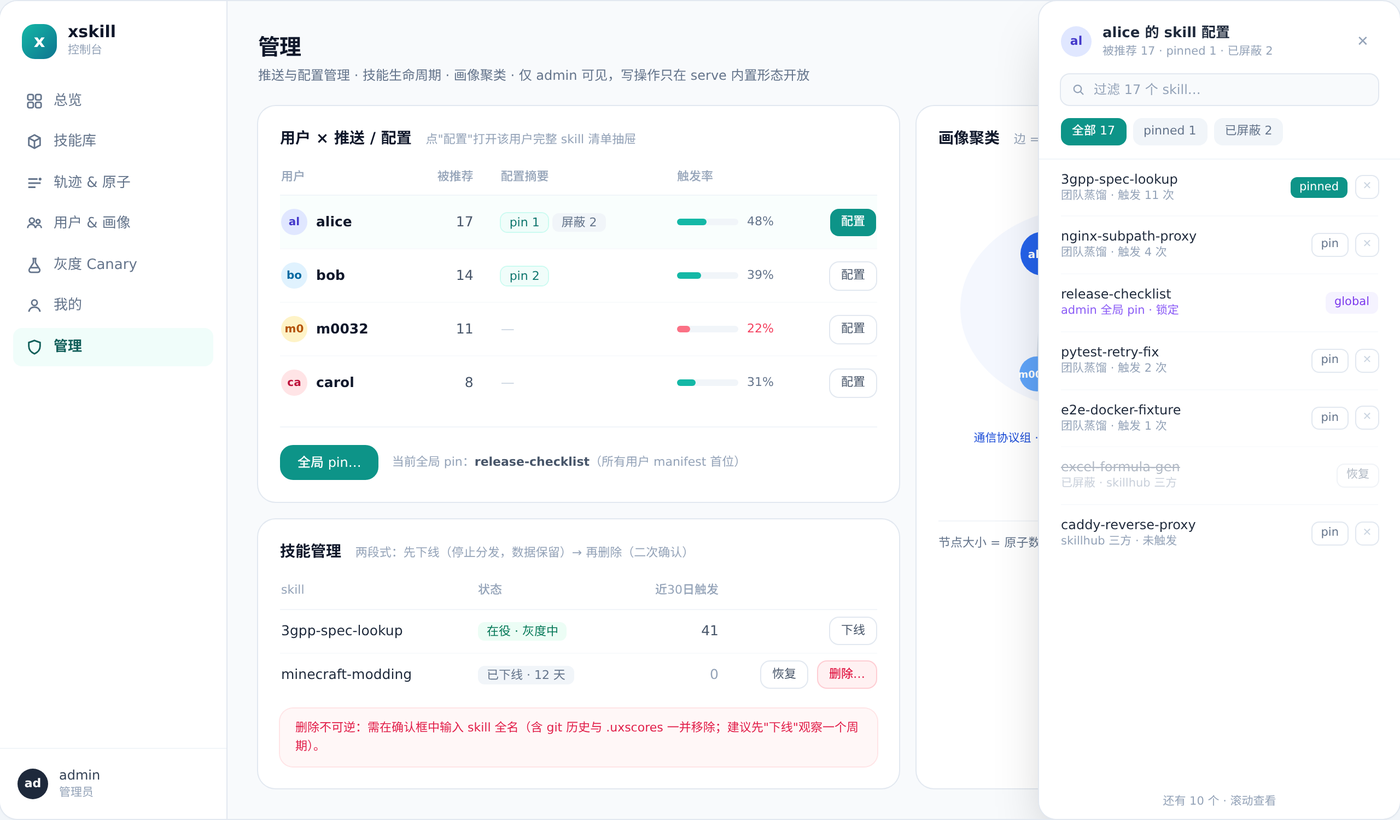
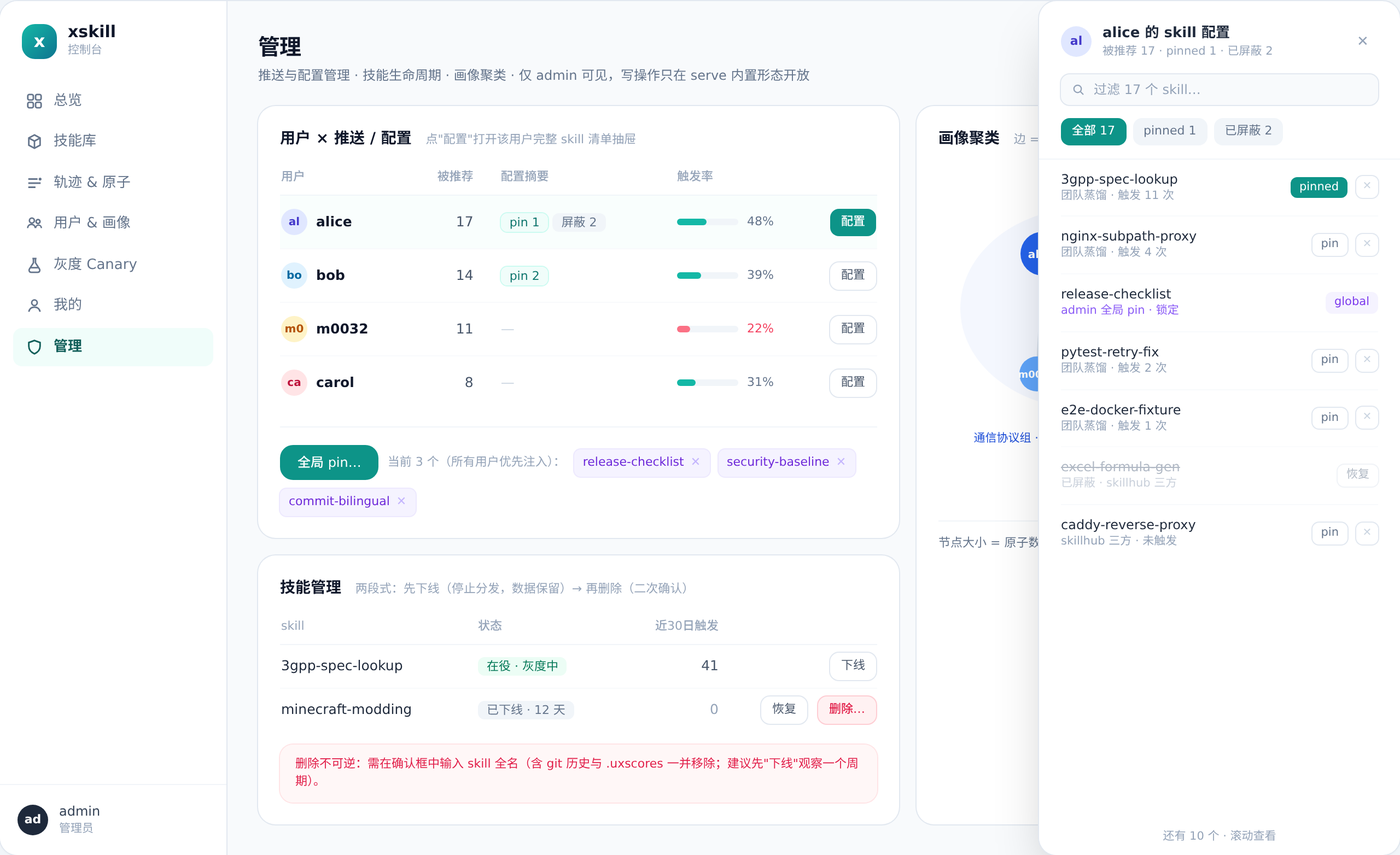
docs(openspec): v4——总览页(蒸馏进度)+设置页(config热加载)+多全局pin+subagent评审采纳 | v4: overview w/ pipeline progress, settings w/ hot-reload, multi global pins, subagent review adopted
按第四轮 review + 独立评审 agent：
- 新增图⑥总览页：可信 KPI、蒸馏管线五阶段实时进度、冷启动屏障进度条、
  候选孵化 weightscore 进度；图⑦设置页：config.yaml 分段表单+原文编辑+
  校验并热加载（失败不落盘），热加载范围显式声明
- global pin 支持多个（chip 列表可逐个移除，合计仍受 slot 上限）
- subagent 评审 12 条采纳：canary_decision 加 sha+refs/rejected（D9，修
  进化图回滚节点拉不通）；canonical 身份键=user_name、归因列改名 user_key
  并废弃 label JOIN（D5 修订）；recommendation_log 注水与 skill_used 单值
  写入审计清单；pinned 超量校验移到写入侧（D8，防 sync 500）；公网只读
  实例内容白名单（原文/画像物理不挂）；语义检索仅内置形态；Web
  Notifications 降为 HTTPS 增强（D10）；事件扇出规则；Q2 倾向 token 方案

Fourth review round + independent subagent review: added overview page
(distillation pipeline progress, cold-start barrier, candidate incubation
bars) and settings page (config hot-reload with explicit scope); multiple
global pins; adopted 12 review findings incl. D8/D9/D10 and the user_key
canonical identity decision.

diff --git a/openspec/changes/dashboard-console-redesign/mockups/panels.html b/openspec/changes/dashboard-console-redesign/mockups/panels.html
@@ -30,6 +30,7 @@
       <a class="flex items-center gap-2.5 px-3 py-2 rounded-lg text-slate-500 hover:bg-slate-50"><svg width="15" height="15" viewBox="0 0 16 16" fill="none" stroke="currentColor" stroke-width="1.5"><path d="M6 1.5h4M7 1.5v4.2L3 12a2 2 0 001.8 3h6.4A2 2 0 0013 12L9 5.7V1.5"/><path d="M4.5 10.5h7"/></svg>灰度 Canary</a>
       <a class="flex items-center gap-2.5 px-3 py-2 rounded-lg text-slate-500 hover:bg-slate-50"><svg width="15" height="15" viewBox="0 0 16 16" fill="none" stroke="currentColor" stroke-width="1.5"><circle cx="8" cy="5.2" r="2.7"/><path d="M2.5 14c.6-3 2.8-4.5 5.5-4.5s4.9 1.5 5.5 4.5"/></svg>我的</a>
       <a class="flex items-center gap-2.5 px-3 py-2 rounded-lg text-slate-500 hover:bg-slate-50"><svg width="15" height="15" viewBox="0 0 16 16" fill="none" stroke="currentColor" stroke-width="1.5"><path d="M8 1.5l5.5 2v3.6c0 3.6-2.3 6-5.5 7.4-3.2-1.4-5.5-3.8-5.5-7.4V3.5l5.5-2z"/></svg>管理</a>
+      <a class="flex items-center gap-2.5 px-3 py-2 rounded-lg text-slate-500 hover:bg-slate-50"><svg width="15" height="15" viewBox="0 0 16 16" fill="none" stroke="currentColor" stroke-width="1.5"><circle cx="8" cy="8" r="2.2"/><path d="M8 1.5v2.2M8 12.3v2.2M1.5 8h2.2M12.3 8h2.2M3.8 3.8l1.5 1.5M10.7 10.7l1.5 1.5M12.2 3.8l-1.5 1.5M5.3 10.7l-1.5 1.5"/></svg>设置</a>
     </nav>
     <div class="mt-auto px-4 py-4 border-t border-slate-100 flex items-center gap-2.5">
       <div class="w-7 h-7 rounded-full bg-indigo-100 text-indigo-700 flex items-center justify-center text-[11px] font-bold">al</div>
@@ -295,6 +296,7 @@
       <a class="flex items-center gap-2.5 px-3 py-2 rounded-lg text-slate-500"><svg width="15" height="15" viewBox="0 0 16 16" fill="none" stroke="currentColor" stroke-width="1.5"><path d="M6 1.5h4M7 1.5v4.2L3 12a2 2 0 001.8 3h6.4A2 2 0 0013 12L9 5.7V1.5"/><path d="M4.5 10.5h7"/></svg>灰度 Canary</a>
       <a class="flex items-center gap-2.5 px-3 py-2 rounded-lg text-slate-500"><svg width="15" height="15" viewBox="0 0 16 16" fill="none" stroke="currentColor" stroke-width="1.5"><circle cx="8" cy="5.2" r="2.7"/><path d="M2.5 14c.6-3 2.8-4.5 5.5-4.5s4.9 1.5 5.5 4.5"/></svg>我的</a>
       <a class="flex items-center gap-2.5 px-3 py-2 rounded-lg text-slate-500"><svg width="15" height="15" viewBox="0 0 16 16" fill="none" stroke="currentColor" stroke-width="1.5"><path d="M8 1.5l5.5 2v3.6c0 3.6-2.3 6-5.5 7.4-3.2-1.4-5.5-3.8-5.5-7.4V3.5l5.5-2z"/></svg>管理</a>
+      <a class="flex items-center gap-2.5 px-3 py-2 rounded-lg text-slate-500 hover:bg-slate-50"><svg width="15" height="15" viewBox="0 0 16 16" fill="none" stroke="currentColor" stroke-width="1.5"><circle cx="8" cy="8" r="2.2"/><path d="M8 1.5v2.2M8 12.3v2.2M1.5 8h2.2M12.3 8h2.2M3.8 3.8l1.5 1.5M10.7 10.7l1.5 1.5M12.2 3.8l-1.5 1.5M5.3 10.7l-1.5 1.5"/></svg>设置</a>
     </nav>
     <div class="mt-auto px-4 py-4 border-t border-slate-100 flex items-center gap-2.5">
       <div class="w-7 h-7 rounded-full bg-indigo-100 text-indigo-700 flex items-center justify-center text-[11px] font-bold">al</div>
@@ -431,6 +433,7 @@
       <a class="flex items-center gap-2.5 px-3 py-2 rounded-lg text-slate-500"><svg width="15" height="15" viewBox="0 0 16 16" fill="none" stroke="currentColor" stroke-width="1.5"><path d="M6 1.5h4M7 1.5v4.2L3 12a2 2 0 001.8 3h6.4A2 2 0 0013 12L9 5.7V1.5"/><path d="M4.5 10.5h7"/></svg>灰度 Canary</a>
       <a class="flex items-center gap-2.5 px-3 py-2 rounded-lg text-slate-500"><svg width="15" height="15" viewBox="0 0 16 16" fill="none" stroke="currentColor" stroke-width="1.5"><circle cx="8" cy="5.2" r="2.7"/><path d="M2.5 14c.6-3 2.8-4.5 5.5-4.5s4.9 1.5 5.5 4.5"/></svg>我的</a>
       <a class="flex items-center gap-2.5 px-3 py-2 rounded-lg text-slate-500"><svg width="15" height="15" viewBox="0 0 16 16" fill="none" stroke="currentColor" stroke-width="1.5"><path d="M8 1.5l5.5 2v3.6c0 3.6-2.3 6-5.5 7.4-3.2-1.4-5.5-3.8-5.5-7.4V3.5l5.5-2z"/></svg>管理</a>
+      <a class="flex items-center gap-2.5 px-3 py-2 rounded-lg text-slate-500 hover:bg-slate-50"><svg width="15" height="15" viewBox="0 0 16 16" fill="none" stroke="currentColor" stroke-width="1.5"><circle cx="8" cy="8" r="2.2"/><path d="M8 1.5v2.2M8 12.3v2.2M1.5 8h2.2M12.3 8h2.2M3.8 3.8l1.5 1.5M10.7 10.7l1.5 1.5M12.2 3.8l-1.5 1.5M5.3 10.7l-1.5 1.5"/></svg>设置</a>
     </nav>
     <div class="mt-auto px-4 py-4 border-t border-slate-100 flex items-center gap-2.5">
       <div class="w-7 h-7 rounded-full bg-slate-800 text-white flex items-center justify-center text-[11px] font-bold">ad</div>
@@ -587,6 +590,7 @@
       <a class="flex items-center gap-2.5 px-3 py-2 rounded-lg text-slate-500"><svg width="15" height="15" viewBox="0 0 16 16" fill="none" stroke="currentColor" stroke-width="1.5"><path d="M6 1.5h4M7 1.5v4.2L3 12a2 2 0 001.8 3h6.4A2 2 0 0013 12L9 5.7V1.5"/><path d="M4.5 10.5h7"/></svg>灰度 Canary</a>
       <a class="flex items-center gap-2.5 px-3 py-2 rounded-lg bg-teal-50 text-teal-800 font-semibold"><svg width="15" height="15" viewBox="0 0 16 16" fill="none" stroke="currentColor" stroke-width="1.5"><circle cx="8" cy="5.2" r="2.7"/><path d="M2.5 14c.6-3 2.8-4.5 5.5-4.5s4.9 1.5 5.5 4.5"/></svg>我的</a>
       <a class="flex items-center gap-2.5 px-3 py-2 rounded-lg text-slate-500"><svg width="15" height="15" viewBox="0 0 16 16" fill="none" stroke="currentColor" stroke-width="1.5"><path d="M8 1.5l5.5 2v3.6c0 3.6-2.3 6-5.5 7.4-3.2-1.4-5.5-3.8-5.5-7.4V3.5l5.5-2z"/></svg>管理</a>
+      <a class="flex items-center gap-2.5 px-3 py-2 rounded-lg text-slate-500 hover:bg-slate-50"><svg width="15" height="15" viewBox="0 0 16 16" fill="none" stroke="currentColor" stroke-width="1.5"><circle cx="8" cy="8" r="2.2"/><path d="M8 1.5v2.2M8 12.3v2.2M1.5 8h2.2M12.3 8h2.2M3.8 3.8l1.5 1.5M10.7 10.7l1.5 1.5M12.2 3.8l-1.5 1.5M5.3 10.7l-1.5 1.5"/></svg>设置</a>
     </nav>
     <div class="mt-auto px-4 py-4 border-t border-slate-100 flex items-center gap-2.5">
       <div class="w-7 h-7 rounded-full bg-sky-100 text-sky-700 flex items-center justify-center text-[11px] font-bold">bo</div>
@@ -813,6 +817,7 @@
       <a class="flex items-center gap-2.5 px-3 py-2 rounded-lg text-slate-500"><svg width="15" height="15" viewBox="0 0 16 16" fill="none" stroke="currentColor" stroke-width="1.5"><path d="M6 1.5h4M7 1.5v4.2L3 12a2 2 0 001.8 3h6.4A2 2 0 0013 12L9 5.7V1.5"/><path d="M4.5 10.5h7"/></svg>灰度 Canary</a>
       <a class="flex items-center gap-2.5 px-3 py-2 rounded-lg text-slate-500"><svg width="15" height="15" viewBox="0 0 16 16" fill="none" stroke="currentColor" stroke-width="1.5"><circle cx="8" cy="5.2" r="2.7"/><path d="M2.5 14c.6-3 2.8-4.5 5.5-4.5s4.9 1.5 5.5 4.5"/></svg>我的</a>
       <a class="flex items-center gap-2.5 px-3 py-2 rounded-lg bg-teal-50 text-teal-800 font-semibold"><svg width="15" height="15" viewBox="0 0 16 16" fill="none" stroke="currentColor" stroke-width="1.5"><path d="M8 1.5l5.5 2v3.6c0 3.6-2.3 6-5.5 7.4-3.2-1.4-5.5-3.8-5.5-7.4V3.5l5.5-2z"/></svg>管理</a>
+      <a class="flex items-center gap-2.5 px-3 py-2 rounded-lg text-slate-500 hover:bg-slate-50"><svg width="15" height="15" viewBox="0 0 16 16" fill="none" stroke="currentColor" stroke-width="1.5"><circle cx="8" cy="8" r="2.2"/><path d="M8 1.5v2.2M8 12.3v2.2M1.5 8h2.2M12.3 8h2.2M3.8 3.8l1.5 1.5M10.7 10.7l1.5 1.5M12.2 3.8l-1.5 1.5M5.3 10.7l-1.5 1.5"/></svg>设置</a>
     </nav>
     <div class="mt-auto px-4 py-4 border-t border-slate-100 flex items-center gap-2.5">
       <div class="w-7 h-7 rounded-full bg-slate-800 text-white flex items-center justify-center text-[11px] font-bold">ad</div>
@@ -864,9 +869,12 @@
             </tr>
           </tbody>
         </table>
-        <div class="mt-4 pt-4 border-t border-slate-100 flex items-center gap-3">
-          <button class="px-4 py-2 rounded-xl bg-teal-600 text-white text-xs font-medium">全局 pin…</button>
-          <span class="text-[11px] text-slate-400">当前全局 pin：<b class="text-slate-600">release-checklist</b>（所有用户 manifest 首位）</span>
+        <div class="mt-4 pt-4 border-t border-slate-100 flex items-center gap-2 flex-wrap">
+          <button class="px-4 py-2 rounded-xl bg-teal-600 text-white text-xs font-medium shrink-0">全局 pin…</button>
+          <span class="text-[11px] text-slate-400 shrink-0">当前 3 个（所有用户优先注入）：</span>
+          <span class="inline-flex items-center gap-1.5 px-2 py-1 rounded-md bg-violet-50 ring-1 ring-violet-100 text-violet-700 text-[11px]">release-checklist <span class="text-violet-300">✕</span></span>
+          <span class="inline-flex items-center gap-1.5 px-2 py-1 rounded-md bg-violet-50 ring-1 ring-violet-100 text-violet-700 text-[11px]">security-baseline <span class="text-violet-300">✕</span></span>
+          <span class="inline-flex items-center gap-1.5 px-2 py-1 rounded-md bg-violet-50 ring-1 ring-violet-100 text-violet-700 text-[11px]">commit-bilingual <span class="text-violet-300">✕</span></span>
         </div>
       </div>
 
@@ -995,6 +1003,240 @@
         </div>
         <div class="absolute bottom-0 left-0 right-0 h-14 bg-gradient-to-t from-white to-transparent flex items-end justify-center pb-2">
           <span class="text-[10.5px] text-slate-400">还有 10 个 · 滚动查看</span>
+        </div>
+      </div>
+    </div>
+  </main>
+</div>
+
+<!-- ══════════════════════ ⑥ 总览 ══════════════════════ -->
+<div class="w-[1280px] mx-auto mt-10 mb-2 text-slate-500 text-sm"><b class="text-slate-800 text-base mr-2">⑥ 总览页</b>可信 KPI ＋ 蒸馏管线实时进度（冷启动屏障/候选孵化进度条）＋ 趋势与生态分布</div>
+<div id="pg-overview" class="w-[1280px] mx-auto flex bg-slate-50 rounded-2xl ring-1 ring-slate-200 shadow-sm overflow-hidden">
+  <aside class="w-52 shrink-0 bg-white border-r border-slate-200 flex flex-col">
+    <div class="px-5 pt-5 pb-4 flex items-center gap-2.5">
+      <div class="w-8 h-8 rounded-xl bg-gradient-to-br from-teal-500 to-cyan-700 flex items-center justify-center text-white font-bold text-base">x</div>
+      <div><div class="font-bold text-[15px] leading-4 text-slate-900">xskill</div><div class="text-[10.5px] text-slate-400 mt-0.5">控制台</div></div>
+    </div>
+    <nav class="px-3 space-y-0.5 mt-1 text-[13px]">
+      <a class="flex items-center gap-2.5 px-3 py-2 rounded-lg bg-teal-50 text-teal-800 font-semibold"><svg width="15" height="15" viewBox="0 0 16 16" fill="none" stroke="currentColor" stroke-width="1.5"><rect x="1.5" y="1.5" width="5.4" height="5.4" rx="1.5"/><rect x="9.1" y="1.5" width="5.4" height="5.4" rx="1.5"/><rect x="1.5" y="9.1" width="5.4" height="5.4" rx="1.5"/><rect x="9.1" y="9.1" width="5.4" height="5.4" rx="1.5"/></svg>总览</a>
+      <a class="flex items-center gap-2.5 px-3 py-2 rounded-lg text-slate-500"><svg width="15" height="15" viewBox="0 0 16 16" fill="none" stroke="currentColor" stroke-width="1.5"><path d="M8 1.5l5.5 3v7l-5.5 3-5.5-3v-7l5.5-3z"/><path d="M2.5 4.5L8 7.5l5.5-3M8 7.5v7"/></svg>技能库</a>
+      <a class="flex items-center gap-2.5 px-3 py-2 rounded-lg text-slate-500"><svg width="15" height="15" viewBox="0 0 16 16" fill="none" stroke="currentColor" stroke-width="1.5"><path d="M2 4h9M2 8h12M2 12h7"/><circle cx="13.5" cy="4" r="1.4" fill="currentColor" stroke="none"/></svg>轨迹 &amp; 原子</a>
+      <a class="flex items-center gap-2.5 px-3 py-2 rounded-lg text-slate-500"><svg width="15" height="15" viewBox="0 0 16 16" fill="none" stroke="currentColor" stroke-width="1.5"><circle cx="5.5" cy="5" r="2.4"/><circle cx="11.5" cy="6" r="1.9"/><path d="M1.5 13.5c0-2.4 1.8-4 4-4s4 1.6 4 4M10 13.5c0-1.9 1.3-3.2 3-3.2s3 1.3 3 3.2" transform="scale(0.92)"/></svg>用户 &amp; 画像</a>
+      <a class="flex items-center gap-2.5 px-3 py-2 rounded-lg text-slate-500"><svg width="15" height="15" viewBox="0 0 16 16" fill="none" stroke="currentColor" stroke-width="1.5"><path d="M6 1.5h4M7 1.5v4.2L3 12a2 2 0 001.8 3h6.4A2 2 0 0013 12L9 5.7V1.5"/><path d="M4.5 10.5h7"/></svg>灰度 Canary</a>
+      <a class="flex items-center gap-2.5 px-3 py-2 rounded-lg text-slate-500"><svg width="15" height="15" viewBox="0 0 16 16" fill="none" stroke="currentColor" stroke-width="1.5"><circle cx="8" cy="5.2" r="2.7"/><path d="M2.5 14c.6-3 2.8-4.5 5.5-4.5s4.9 1.5 5.5 4.5"/></svg>我的</a>
+      <a class="flex items-center gap-2.5 px-3 py-2 rounded-lg text-slate-500"><svg width="15" height="15" viewBox="0 0 16 16" fill="none" stroke="currentColor" stroke-width="1.5"><path d="M8 1.5l5.5 2v3.6c0 3.6-2.3 6-5.5 7.4-3.2-1.4-5.5-3.8-5.5-7.4V3.5l5.5-2z"/></svg>管理</a>
+      <a class="flex items-center gap-2.5 px-3 py-2 rounded-lg text-slate-500"><svg width="15" height="15" viewBox="0 0 16 16" fill="none" stroke="currentColor" stroke-width="1.5"><circle cx="8" cy="8" r="2.2"/><path d="M8 1.5v2.2M8 12.3v2.2M1.5 8h2.2M12.3 8h2.2M3.8 3.8l1.5 1.5M10.7 10.7l1.5 1.5M12.2 3.8l-1.5 1.5M5.3 10.7l-1.5 1.5"/></svg>设置</a>
+    </nav>
+    <div class="mt-auto px-4 py-4 border-t border-slate-100 flex items-center gap-2.5">
+      <div class="w-7 h-7 rounded-full bg-indigo-100 text-indigo-700 flex items-center justify-center text-[11px] font-bold">al</div>
+      <div class="text-xs"><div class="font-medium text-slate-700">alice</div><div class="text-slate-400 text-[10.5px]">普通用户</div></div>
+    </div>
+  </aside>
+
+  <main class="flex-1 p-7 min-w-0">
+    <div class="flex items-baseline justify-between">
+      <h1 class="text-xl font-bold tracking-tight">总览</h1>
+      <span class="text-[11px] text-slate-400">全部指标口径见 docs/dashboard-metrics.md（卡片 ⓘ 同源）</span>
+    </div>
+
+    <div class="grid grid-cols-5 gap-4 mt-4">
+      <div class="bg-white rounded-2xl ring-1 ring-slate-200 px-5 py-4">
+        <div class="text-[11px] text-slate-400 font-medium">轨迹</div>
+        <div class="mt-1 text-[26px] font-semibold tracking-tight num">1,284</div>
+        <div class="mt-0.5 text-[11px] text-emerald-600 font-medium">今日 +23</div>
+      </div>
+      <div class="bg-white rounded-2xl ring-1 ring-slate-200 px-5 py-4">
+        <div class="text-[11px] text-slate-400 font-medium">原子</div>
+        <div class="mt-1 text-[26px] font-semibold tracking-tight num">5,832</div>
+        <div class="mt-0.5 text-[11px] text-emerald-600 font-medium">今日 +104</div>
+      </div>
+      <div class="bg-white rounded-2xl ring-1 ring-slate-200 px-5 py-4">
+        <div class="text-[11px] text-slate-400 font-medium">skill</div>
+        <div class="mt-1 text-[26px] font-semibold tracking-tight num">47</div>
+        <div class="mt-0.5 text-[11px] text-slate-500">灰度中 4 · 孵化中 6</div>
+      </div>
+      <div class="bg-white rounded-2xl ring-1 ring-slate-200 px-5 py-4">
+        <div class="text-[11px] text-slate-400 font-medium">今日成本</div>
+        <div class="mt-1 text-[26px] font-semibold tracking-tight num">$3.42</div>
+        <div class="mt-0.5 text-[11px] text-slate-500">本周 $18.7</div>
+      </div>
+      <div class="bg-white rounded-2xl ring-1 ring-slate-200 px-5 py-4">
+        <div class="text-[11px] text-slate-400 font-medium">平均 ux</div>
+        <div class="mt-1 flex items-baseline gap-1"><span class="text-[26px] font-semibold tracking-tight num">7.6</span><span class="text-xs text-slate-400">/10</span></div>
+        <div class="mt-0.5 text-[11px] text-emerald-600 font-medium">↑ 0.3 vs 上周</div>
+      </div>
+    </div>
+
+    <div class="grid grid-cols-12 gap-4 mt-4">
+      <div class="col-span-7 bg-white rounded-2xl ring-1 ring-slate-200 p-5">
+        <h2 class="font-semibold text-sm">蒸馏管线 <span class="font-normal text-[11px] text-slate-400 ml-2">实时 · 30s 轮询 · 点击阶段查看队列明细</span></h2>
+        <div class="mt-4 flex items-stretch gap-2">
+          <div class="flex-1 rounded-xl ring-1 ring-slate-200 px-3.5 py-3">
+            <div class="text-[11px] text-slate-400">待拆分轨迹</div>
+            <div class="mt-1 text-xl font-semibold num">3</div>
+          </div>
+          <div class="self-center text-slate-300">→</div>
+          <div class="flex-1 rounded-xl ring-1 ring-teal-200 bg-teal-50/50 px-3.5 py-3">
+            <div class="text-[11px] text-teal-600 flex items-center gap-1.5"><span class="w-1.5 h-1.5 rounded-full bg-teal-500 animate-pulse"></span>拆分中</div>
+            <div class="mt-1 text-xl font-semibold num text-teal-700">1</div>
+          </div>
+          <div class="self-center text-slate-300">→</div>
+          <div class="flex-1 rounded-xl ring-1 ring-teal-200 bg-teal-50/50 px-3.5 py-3">
+            <div class="text-[11px] text-teal-600 flex items-center gap-1.5"><span class="w-1.5 h-1.5 rounded-full bg-teal-500 animate-pulse"></span>聚类分派中</div>
+            <div class="mt-1 text-xl font-semibold num text-teal-700">2</div>
+          </div>
+          <div class="self-center text-slate-300">→</div>
+          <div class="flex-1 rounded-xl ring-1 ring-slate-200 px-3.5 py-3">
+            <div class="text-[11px] text-slate-400">候选累积中</div>
+            <div class="mt-1 text-xl font-semibold num">12<span class="text-xs font-normal text-slate-400 ml-1">skill</span></div>
+          </div>
+          <div class="self-center text-slate-300">→</div>
+          <div class="flex-1 rounded-xl ring-1 ring-slate-200 px-3.5 py-3">
+            <div class="text-[11px] text-slate-400">蒸馏 / 灰度中</div>
+            <div class="mt-1 text-xl font-semibold num">1<span class="text-slate-300 mx-1">/</span>4</div>
+          </div>
+        </div>
+        <div class="mt-4 rounded-xl bg-slate-50 ring-1 ring-slate-100 px-4 py-3">
+          <div class="flex items-baseline justify-between">
+            <span class="text-xs font-medium text-slate-600">冷启动屏障 <span class="text-slate-400 font-normal">收集满后统一蒸馏，避免碎片化 skill</span></span>
+            <span class="text-[11px] num text-slate-500"><b class="text-slate-700">34</b> / 50 条轨迹</span>
+          </div>
+          <div class="mt-2 h-2 rounded-full bg-slate-200/70 overflow-hidden"><div class="h-full w-[68%] rounded-full bg-gradient-to-r from-teal-500 to-cyan-500"></div></div>
+        </div>
+        <div class="mt-4">
+          <div class="text-[11px] text-slate-400 mb-2">近 30 日 · 新增原子/日</div>
+          <svg width="100%" height="90" viewBox="0 0 640 90" preserveAspectRatio="none">
+            <defs><linearGradient id="go" x1="0" y1="0" x2="0" y2="1"><stop offset="0" stop-color="#0d9488" stop-opacity=".15"/><stop offset="1" stop-color="#0d9488" stop-opacity="0"/></linearGradient></defs>
+            <path d="M0 70 C 40 66 70 60 110 62 C 150 64 180 50 220 48 C 260 46 290 54 330 44 C 370 34 400 40 440 32 C 480 24 520 28 560 20 L 640 16 L 640 90 L 0 90 Z" fill="url(#go)"/>
+            <path d="M0 70 C 40 66 70 60 110 62 C 150 64 180 50 220 48 C 260 46 290 54 330 44 C 370 34 400 40 440 32 C 480 24 520 28 560 20 L 640 16" fill="none" stroke="#0d9488" stroke-width="2"/>
+            <circle cx="640" cy="16" r="3.5" fill="#0d9488" stroke="#fff" stroke-width="1.5"/>
+            <text x="628" y="12" font-size="10" fill="#0f766e" font-weight="600" text-anchor="end">104</text>
+          </svg>
+        </div>
+      </div>
+
+      <div class="col-span-5 space-y-4">
+        <div class="bg-white rounded-2xl ring-1 ring-slate-200 p-5">
+          <h2 class="font-semibold text-sm">候选孵化进度 <span class="font-normal text-[11px] text-slate-400 ml-1">weightscore 满 10 触发蒸馏</span></h2>
+          <div class="mt-3 space-y-3.5">
+            <div>
+              <div class="flex items-baseline justify-between"><span class="font-medium text-slate-800 text-xs">traj2skill-release</span><span class="text-[11px] num text-teal-700 font-semibold">8.6 <span class="text-slate-300 font-normal">/ 10</span></span></div>
+              <div class="mt-1.5 h-2 rounded-full bg-slate-100 overflow-hidden"><div class="h-full w-[86%] rounded-full bg-teal-500"></div></div>
+              <div class="mt-1 text-[10.5px] text-slate-400">6 个原子贡献 · 差 1~2 个同主题原子即触发</div>
+            </div>
+            <div>
+              <div class="flex items-baseline justify-between"><span class="font-medium text-slate-800 text-xs">k8s-debug-notes</span><span class="text-[11px] num text-slate-600 font-semibold">5.2 <span class="text-slate-300 font-normal">/ 10</span></span></div>
+              <div class="mt-1.5 h-2 rounded-full bg-slate-100 overflow-hidden"><div class="h-full w-[52%] rounded-full bg-teal-500"></div></div>
+              <div class="mt-1 text-[10.5px] text-slate-400">4 个原子贡献 · 3 天前最后累积</div>
+            </div>
+            <div>
+              <div class="flex items-baseline justify-between">
+                <span class="font-medium text-slate-800 text-xs">grafana-alert-rules <span class="ml-1 px-1.5 py-0.5 rounded bg-amber-50 text-amber-600 text-[10px] font-normal">baby</span></span>
+                <span class="text-[11px] num text-slate-600 font-semibold">2.1 <span class="text-slate-300 font-normal">/ 10</span></span>
+              </div>
+              <div class="mt-1.5 h-2 rounded-full bg-slate-100 overflow-hidden"><div class="h-full w-[21%] rounded-full bg-teal-500"></div></div>
+              <div class="mt-1 text-[10.5px] text-slate-400">TCA 新建 · 1 个原子</div>
+            </div>
+          </div>
+          <a class="block mt-3 pt-3 border-t border-slate-100 text-[11px] text-teal-700 font-medium">全部 12 个候选 →</a>
+        </div>
+
+        <div class="bg-white rounded-2xl ring-1 ring-slate-200 p-5">
+          <h2 class="font-semibold text-sm">生态分布 <span class="font-normal text-[11px] text-slate-400 ml-1">按轨迹来源</span></h2>
+          <div class="mt-3 space-y-2.5">
+            <div class="flex items-center gap-2.5"><span class="w-20 text-slate-600 text-xs text-right">claude-code</span><div class="flex-1 h-2 rounded-full bg-slate-100"><div class="h-full rounded-full bg-teal-500" style="width:62%"></div></div><span class="num text-slate-500 w-9 text-right text-[11px]">62%</span></div>
+            <div class="flex items-center gap-2.5"><span class="w-20 text-slate-600 text-xs text-right">codex</span><div class="flex-1 h-2 rounded-full bg-slate-100"><div class="h-full rounded-full bg-teal-500" style="width:23%"></div></div><span class="num text-slate-500 w-9 text-right text-[11px]">23%</span></div>
+            <div class="flex items-center gap-2.5"><span class="w-20 text-slate-600 text-xs text-right">opencode</span><div class="flex-1 h-2 rounded-full bg-slate-100"><div class="h-full rounded-full bg-teal-500" style="width:15%"></div></div><span class="num text-slate-500 w-9 text-right text-[11px]">15%</span></div>
+          </div>
+        </div>
+      </div>
+    </div>
+  </main>
+</div>
+
+<!-- ══════════════════════ ⑦ 设置 ══════════════════════ -->
+<div class="w-[1280px] mx-auto mt-10 mb-2 text-slate-500 text-sm"><b class="text-slate-800 text-base mr-2">⑦ 设置页（admin）</b>config.yaml 分段表单 ＋ 原文编辑 ＋ 校验并热加载</div>
+<div id="pg-settings" class="w-[1280px] mx-auto flex bg-slate-50 rounded-2xl ring-1 ring-slate-200 shadow-sm overflow-hidden">
+  <aside class="w-52 shrink-0 bg-white border-r border-slate-200 flex flex-col">
+    <div class="px-5 pt-5 pb-4 flex items-center gap-2.5">
+      <div class="w-8 h-8 rounded-xl bg-gradient-to-br from-teal-500 to-cyan-700 flex items-center justify-center text-white font-bold text-base">x</div>
+      <div><div class="font-bold text-[15px] leading-4 text-slate-900">xskill</div><div class="text-[10.5px] text-slate-400 mt-0.5">控制台</div></div>
+    </div>
+    <nav class="px-3 space-y-0.5 mt-1 text-[13px]">
+      <a class="flex items-center gap-2.5 px-3 py-2 rounded-lg text-slate-500"><svg width="15" height="15" viewBox="0 0 16 16" fill="none" stroke="currentColor" stroke-width="1.5"><rect x="1.5" y="1.5" width="5.4" height="5.4" rx="1.5"/><rect x="9.1" y="1.5" width="5.4" height="5.4" rx="1.5"/><rect x="1.5" y="9.1" width="5.4" height="5.4" rx="1.5"/><rect x="9.1" y="9.1" width="5.4" height="5.4" rx="1.5"/></svg>总览</a>
+      <a class="flex items-center gap-2.5 px-3 py-2 rounded-lg text-slate-500"><svg width="15" height="15" viewBox="0 0 16 16" fill="none" stroke="currentColor" stroke-width="1.5"><path d="M8 1.5l5.5 3v7l-5.5 3-5.5-3v-7l5.5-3z"/><path d="M2.5 4.5L8 7.5l5.5-3M8 7.5v7"/></svg>技能库</a>
+      <a class="flex items-center gap-2.5 px-3 py-2 rounded-lg text-slate-500"><svg width="15" height="15" viewBox="0 0 16 16" fill="none" stroke="currentColor" stroke-width="1.5"><path d="M2 4h9M2 8h12M2 12h7"/><circle cx="13.5" cy="4" r="1.4" fill="currentColor" stroke="none"/></svg>轨迹 &amp; 原子</a>
+      <a class="flex items-center gap-2.5 px-3 py-2 rounded-lg text-slate-500"><svg width="15" height="15" viewBox="0 0 16 16" fill="none" stroke="currentColor" stroke-width="1.5"><circle cx="5.5" cy="5" r="2.4"/><circle cx="11.5" cy="6" r="1.9"/><path d="M1.5 13.5c0-2.4 1.8-4 4-4s4 1.6 4 4M10 13.5c0-1.9 1.3-3.2 3-3.2s3 1.3 3 3.2" transform="scale(0.92)"/></svg>用户 &amp; 画像</a>
+      <a class="flex items-center gap-2.5 px-3 py-2 rounded-lg text-slate-500"><svg width="15" height="15" viewBox="0 0 16 16" fill="none" stroke="currentColor" stroke-width="1.5"><path d="M6 1.5h4M7 1.5v4.2L3 12a2 2 0 001.8 3h6.4A2 2 0 0013 12L9 5.7V1.5"/><path d="M4.5 10.5h7"/></svg>灰度 Canary</a>
+      <a class="flex items-center gap-2.5 px-3 py-2 rounded-lg text-slate-500"><svg width="15" height="15" viewBox="0 0 16 16" fill="none" stroke="currentColor" stroke-width="1.5"><circle cx="8" cy="5.2" r="2.7"/><path d="M2.5 14c.6-3 2.8-4.5 5.5-4.5s4.9 1.5 5.5 4.5"/></svg>我的</a>
+      <a class="flex items-center gap-2.5 px-3 py-2 rounded-lg text-slate-500"><svg width="15" height="15" viewBox="0 0 16 16" fill="none" stroke="currentColor" stroke-width="1.5"><path d="M8 1.5l5.5 2v3.6c0 3.6-2.3 6-5.5 7.4-3.2-1.4-5.5-3.8-5.5-7.4V3.5l5.5-2z"/></svg>管理</a>
+      <a class="flex items-center gap-2.5 px-3 py-2 rounded-lg bg-teal-50 text-teal-800 font-semibold"><svg width="15" height="15" viewBox="0 0 16 16" fill="none" stroke="currentColor" stroke-width="1.5"><circle cx="8" cy="8" r="2.2"/><path d="M8 1.5v2.2M8 12.3v2.2M1.5 8h2.2M12.3 8h2.2M3.8 3.8l1.5 1.5M10.7 10.7l1.5 1.5M12.2 3.8l-1.5 1.5M5.3 10.7l-1.5 1.5"/></svg>设置</a>
+    </nav>
+    <div class="mt-auto px-4 py-4 border-t border-slate-100 flex items-center gap-2.5">
+      <div class="w-7 h-7 rounded-full bg-slate-800 text-white flex items-center justify-center text-[11px] font-bold">ad</div>
+      <div class="text-xs"><div class="font-medium text-slate-700">admin</div><div class="text-slate-400 text-[10.5px]">管理员</div></div>
+    </div>
+  </aside>
+
+  <main class="flex-1 p-7 min-w-0">
+    <div class="flex items-baseline justify-between">
+      <div>
+        <h1 class="text-xl font-bold tracking-tight">设置</h1>
+        <div class="text-slate-500 text-xs mt-1">config.yaml 管理 · 仅 admin · 校验失败不落盘不生效（直接报错）</div>
+      </div>
+      <span class="text-[11px] text-slate-400">上次热加载：今天 14:02 · <span class="text-emerald-600 font-medium">成功</span></span>
+    </div>
+
+    <div class="grid grid-cols-12 gap-4 mt-5">
+      <div class="col-span-5 space-y-4">
+        <div class="bg-white rounded-2xl ring-1 ring-slate-200 p-5">
+          <h2 class="font-semibold text-sm">看板 dashboard</h2>
+          <div class="mt-3 space-y-3 text-xs">
+            <div class="flex items-center justify-between"><span class="text-slate-600">enabled</span><span class="w-9 h-5 rounded-full bg-teal-500 relative inline-block"><span class="absolute right-0.5 top-0.5 w-4 h-4 rounded-full bg-white shadow"></span></span></div>
+            <div class="flex items-center justify-between"><span class="text-slate-600">public</span><span class="w-9 h-5 rounded-full bg-slate-200 relative inline-block"><span class="absolute left-0.5 top-0.5 w-4 h-4 rounded-full bg-white shadow"></span></span></div>
+            <div class="flex items-center justify-between"><span class="text-slate-600">admins</span><span class="px-2 py-1 rounded-lg bg-slate-50 ring-1 ring-slate-200 text-slate-700 font-mono text-[11px]">["admin"]</span></div>
+          </div>
+        </div>
+        <div class="bg-white rounded-2xl ring-1 ring-slate-200 p-5">
+          <h2 class="font-semibold text-sm">灰度 canary</h2>
+          <div class="mt-3 space-y-3 text-xs">
+            <div class="flex items-center justify-between"><span class="text-slate-600">staging_need</span><span class="px-2.5 py-1 rounded-lg bg-slate-50 ring-1 ring-slate-200 text-slate-700 num">3</span></div>
+            <div class="flex items-center justify-between"><span class="text-slate-600">observe_days</span><span class="px-2.5 py-1 rounded-lg bg-slate-50 ring-1 ring-slate-200 text-slate-700 num">7</span></div>
+          </div>
+        </div>
+        <div class="bg-white rounded-2xl ring-1 ring-slate-200 p-5">
+          <h2 class="font-semibold text-sm">推荐 recommend</h2>
+          <div class="mt-3 space-y-3 text-xs">
+            <div class="flex items-center justify-between"><span class="text-slate-600">质量 / 相关性配比</span><span class="px-2.5 py-1 rounded-lg bg-teal-50 ring-1 ring-teal-100 text-teal-700 num font-medium">80 / 20</span></div>
+            <div class="flex items-center justify-between"><span class="text-slate-600">cluster_centers</span><span class="px-2.5 py-1 rounded-lg bg-slate-50 ring-1 ring-slate-200 text-slate-700 num">5</span></div>
+          </div>
+        </div>
+      </div>
+
+      <div class="col-span-7 bg-white rounded-2xl ring-1 ring-slate-200 p-5 flex flex-col">
+        <div class="flex items-center justify-between">
+          <h2 class="font-semibold text-sm">config.yaml <span class="font-normal text-[11px] text-amber-600 ml-2">已修改 · 未生效</span></h2>
+          <div class="flex gap-2">
+            <button class="px-3 py-1.5 rounded-lg ring-1 ring-slate-200 text-xs text-slate-600">仅校验</button>
+            <button class="px-3 py-1.5 rounded-lg bg-teal-600 text-white text-xs font-medium">校验并热加载</button>
+          </div>
+        </div>
+        <div class="mt-3 flex-1 rounded-xl bg-slate-900 p-4 font-mono text-[11.5px] leading-relaxed overflow-hidden">
+          <div><span class="text-sky-400">dashboard</span><span class="text-slate-500">:</span></div>
+          <div class="pl-4"><span class="text-slate-300">enabled</span><span class="text-slate-500">:</span> <span class="text-emerald-400">true</span></div>
+          <div class="pl-4"><span class="text-slate-300">public</span><span class="text-slate-500">:</span> <span class="text-rose-400">false</span></div>
+          <div class="pl-4"><span class="text-slate-300">admins</span><span class="text-slate-500">:</span> <span class="text-amber-300">["admin"]</span></div>
+          <div class="mt-1.5"><span class="text-sky-400">canary</span><span class="text-slate-500">:</span></div>
+          <div class="pl-4 bg-teal-500/10 -mx-4 px-8 border-l-2 border-teal-400"><span class="text-slate-300">staging_need</span><span class="text-slate-500">:</span> <span class="text-amber-300">3</span> <span class="text-slate-600"># ← 本次修改</span></div>
+          <div class="pl-4"><span class="text-slate-300">observe_days</span><span class="text-slate-500">:</span> <span class="text-amber-300">7</span></div>
+          <div class="mt-1.5"><span class="text-sky-400">recommend</span><span class="text-slate-500">:</span></div>
+          <div class="pl-4"><span class="text-slate-300">quality_ratio</span><span class="text-slate-500">:</span> <span class="text-amber-300">0.8</span></div>
+          <div class="pl-4"><span class="text-slate-300">cluster_centers</span><span class="text-slate-500">:</span> <span class="text-amber-300">5</span></div>
+          <div class="mt-1.5"><span class="text-sky-400">llm</span><span class="text-slate-500">:</span> <span class="text-slate-600"># 该段热加载不生效，改动需重启 serve</span></div>
+          <div class="pl-4"><span class="text-slate-300">model</span><span class="text-slate-500">:</span> <span class="text-amber-300">deepseek-v4</span></div>
+        </div>
+        <div class="mt-3 rounded-xl bg-amber-50/70 ring-1 ring-amber-100 px-3.5 py-2.5 text-[11px] text-amber-700">
+          热加载范围：dashboard / canary / recommend / skillhub 段即时生效；llm、watch_dirs 段涉及进程级资源，改动后需重启 serve（页面明确标注，不做静默半生效）。
         </div>
       </div>
     </div>

diff --git a/openspec/changes/dashboard-console-redesign/tasks.md b/openspec/changes/dashboard-console-redesign/tasks.md
@@ -4,23 +4,27 @@
 
 ## P1 看板 → 分析工具（纯读）
 
-- [ ] 1.1 指标审计：逐指标产出「定义/SQL 口径/数据源/已知误差」→ `docs/dashboard-metrics.md`；不可信指标修或删
+- [ ] 1.1 指标审计：逐指标产出「定义/SQL 口径/数据源/已知误差」→ `docs/dashboard-metrics.md`；不可信指标修或删。点名两个已知系统性偏差：① recommendation_log 每次 sync 注水 → 定义曝光口径（user×skill×version 或按天去重）并拍板 ranked/pinned 是否计入；② `trajectories.skill_used` 单值 vs atom `used_skills` 多值 → 以 atom 级为触发事实源
+- [ ] 1.1b canary 裁决可定位（D9）：`canary_decision` 加 `staging_sha/main_sha` 列；`discard_staging` 保留 `refs/rejected/<ts>-<sha>` 只读 ref；存量裁决图上标"无法定位"
 - [ ] 1.2 静态资产 vendor 化：Tabler CSS + uPlot 进 `static/`，去 CDN；内网冒烟
 - [ ] 1.3 `GET /skill/{name}/graph`：main+staging commit DAG + canary 裁决 + 版本 ux 标注；前端 SVG tree+node，点节点 diff
 - [ ] 1.4 skill 血缘分区：得分趋势折线（按版本/按天，可钻取 atoms）+ 来源构成（模型/用户柱状）
 - [ ] 1.5 traj/atom 详情页：`GET /traj/{id}` `/traj/{id}/atoms` `/atom/{id}`（含原文切片）；traj—atom—skill 关系图
 - [ ] 1.6 tag 占比按用户切分视图
 - [ ] 1.7 推荐×触发（skill 粗粒度版，口径诚实标注）
+- [ ] 1.7b 总览页改造：可信 KPI + 蒸馏管线五阶段实时进度 + 冷启动屏障进度条 + 候选孵化 weightscore 进度（纯读：trajectories.status / cold_start / .candidates.yml）
 - [ ] 1.8 单测（空库/断链/git fixture 边界）+ 验收文档 `docs/acceptance/dashboard-p1.md` + playwright E2E
 
 ## P2 身份 + 控制面 + Pin
 
-- [ ] 2.1 `trajectories.client_id` 列 + bridge 入库写入 + 存量一次性迁移脚本（跑完即弃）
+- [ ] 2.1 `trajectories.user_key` 列（canonical=user_name，D5）+ bridge 入库写入 + 存量按 sessions 桶目录名一次性回填（跑完即弃）；`metrics.skill_by_user` 等 label JOIN 口径废弃改读新列；client_id 表聚合层经 ClientRegistry 译成 user_name
 - [ ] 2.2 dashboard 登录（复用 connect --name 身份）+ `dashboard.admins` 角色 + 中间件演进
 - [ ] 2.3 普通用户视图：推给我的 / 我触发的 / skill 详情复用 / 语义检索
 - [ ] 2.4 `skill_prefs` 表（pinned|blocked）+ `build_manifest` 注入（blocked 排除 → pinned 占位 → ranked → recommended；pinned 超量报错）+ 用户自 pin/屏蔽 + admin 代 pin/代屏蔽 & global pin
 - [ ] 2.4b 数量伸缩交互：用户/admin 的 skill 清单右侧抽屉（搜索 + 分组 tab + 滚动）
-- [ ] 2.4c admin 技能管理：下线（停止分发保留数据）/ 删除（二次确认输名）两段式
+- [ ] 2.4c admin 技能管理：下线（停止分发保留数据）/ 删除（二次确认输名）两段式；server 侧影响面单列——retire 状态需 build_manifest、推荐引擎候选池、canary controller 三处尊重；删除复用 skill_repo_lock 防与 watcher/canary 并发；定义"删后同名 skill 再生"语义
+- [ ] 2.4d pinned 超量校验在写入侧（D8）：POST /my/prefs 与 admin/global pin 写入时拒绝，sync 路径永不报错
+- [ ] 2.9 设置页：config.yaml 分段表单 + 原文编辑 + 仅校验/校验并热加载（失败不落盘直接报错）；热加载范围 dashboard/canary/recommend/skillhub，llm/watch_dirs 标注需重启
 - [ ] 2.5 "我的贡献去向"：traj → skill → 使用者钻取
 - [ ] 2.6 推荐触发率升级为用户级精确口径 + "常推不用"排行
 - [ ] 2.7 写端点只挂 serve 内置形态；只读实例物理不挂载

diff --git a/openspec/changes/dashboard-console-redesign/proposal.md b/openspec/changes/dashboard-console-redesign/proposal.md
@@ -92,8 +92,9 @@
   登录与角色中间件（演进 `security.py`）。
 - **`src/xskill/pipeline/registry.py`**：`trajectories.client_id` 列（手动迁移）、`pins` 表、
   `events` 表、若干血缘聚合查询。
-- **`src/xskill/team/server/`**：bridge 入库写 `client_id`；`build_manifest` pinned 注入；
-  `RecoStore` 读扩展。
+- **`src/xskill/team/server/`**：bridge 入库写 `user_key`；`build_manifest` prefs 注入
+  （blocked 排除/pinned 占位）；`RecoStore` 读扩展；skill 下线/删除需 manifest、推荐候选
+  池、canary controller 三处尊重（复用 skill_repo_lock）；config 校验与热加载端点。
 - **`src/xskill/recommend/`**：只读复用（`relevance_search`/`find_friend`/`ProfileStore`），
   P3 加 numpy-only PCA（可选 t-SNE）。
 - **依赖**：不新增 Python 重包；前端图表库 vendor 进 static（候选 uPlot，~45KB，无构建）。
